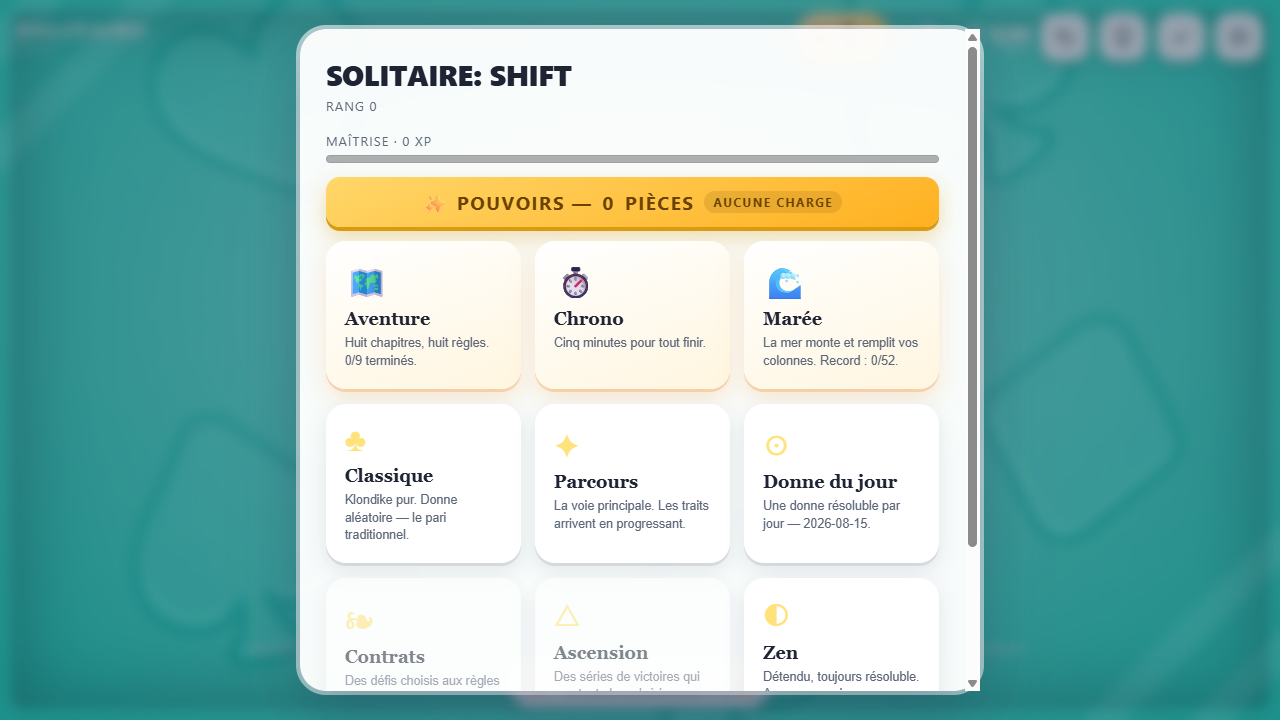
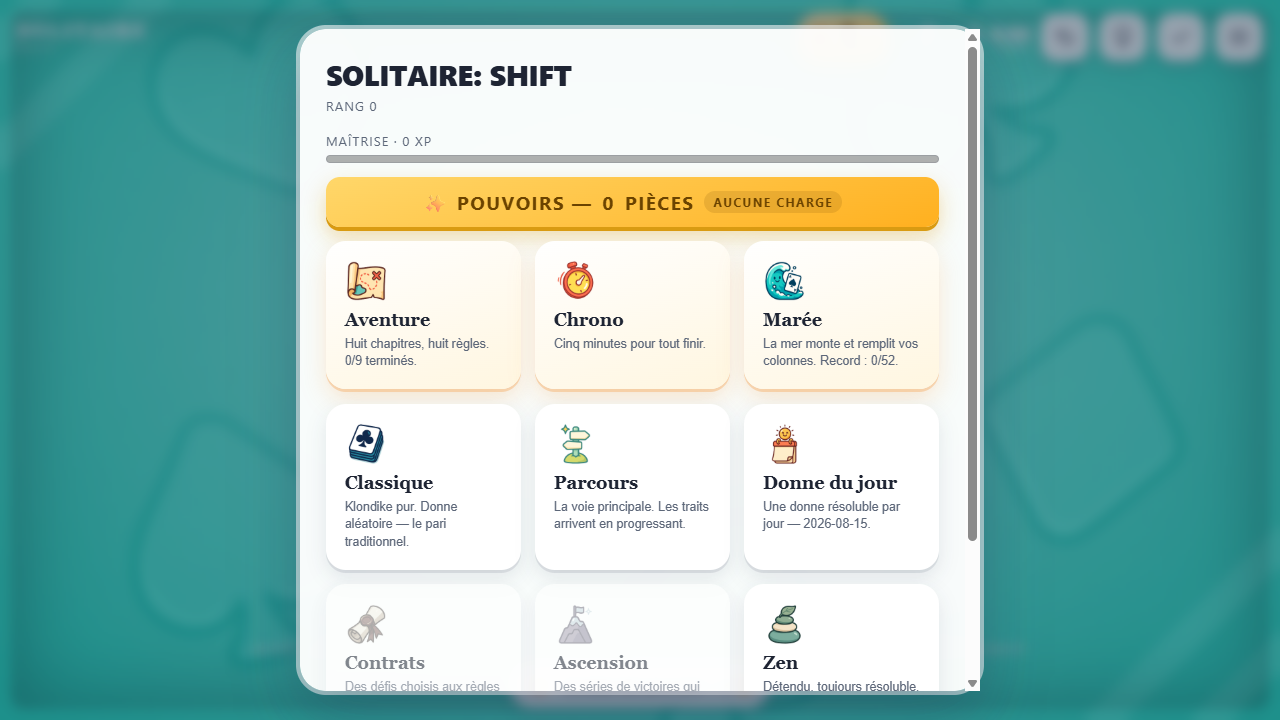
Corriger les libellés de traits qui débordaient de leur pastille
The difficulty cards list their traits in a chip; a three-trait level
overflowed it because the chip never wrapped. It now wraps and grows.

Also updates the store screenshots to show the new drawn icons.

diff --git a/styles/bright.css b/styles/bright.css
@@ -445,14 +445,20 @@ body.auto-finishing .power-bar { opacity: 0.5; pointer-events: none; }
 .mode-card.diff.chosen {
   box-shadow: 0 0 0 3px var(--gold), 0 3px 0 rgba(31,41,72,0.10), 0 10px 24px rgba(31,41,72,0.14);
 }
+/* The trait list can be long ("Même enseigne · Pioche par trois · Sans retour"),
+   so the chip wraps to as many lines as it needs instead of spilling out. */
 .mode-card .chip {
   align-self: flex-start;
+  max-width: 100%;
   font-size: 11px;
   font-weight: 700;
+  line-height: 1.35;
   color: var(--ink-soft);
   background: rgba(31,41,72,0.06);
-  padding: 3px 9px;
-  border-radius: 999px;
+  padding: 4px 10px;
+  border-radius: 12px;
+  white-space: normal;
+  overflow-wrap: anywhere;
 }
 
 /* ---------- small screens ---------- */
